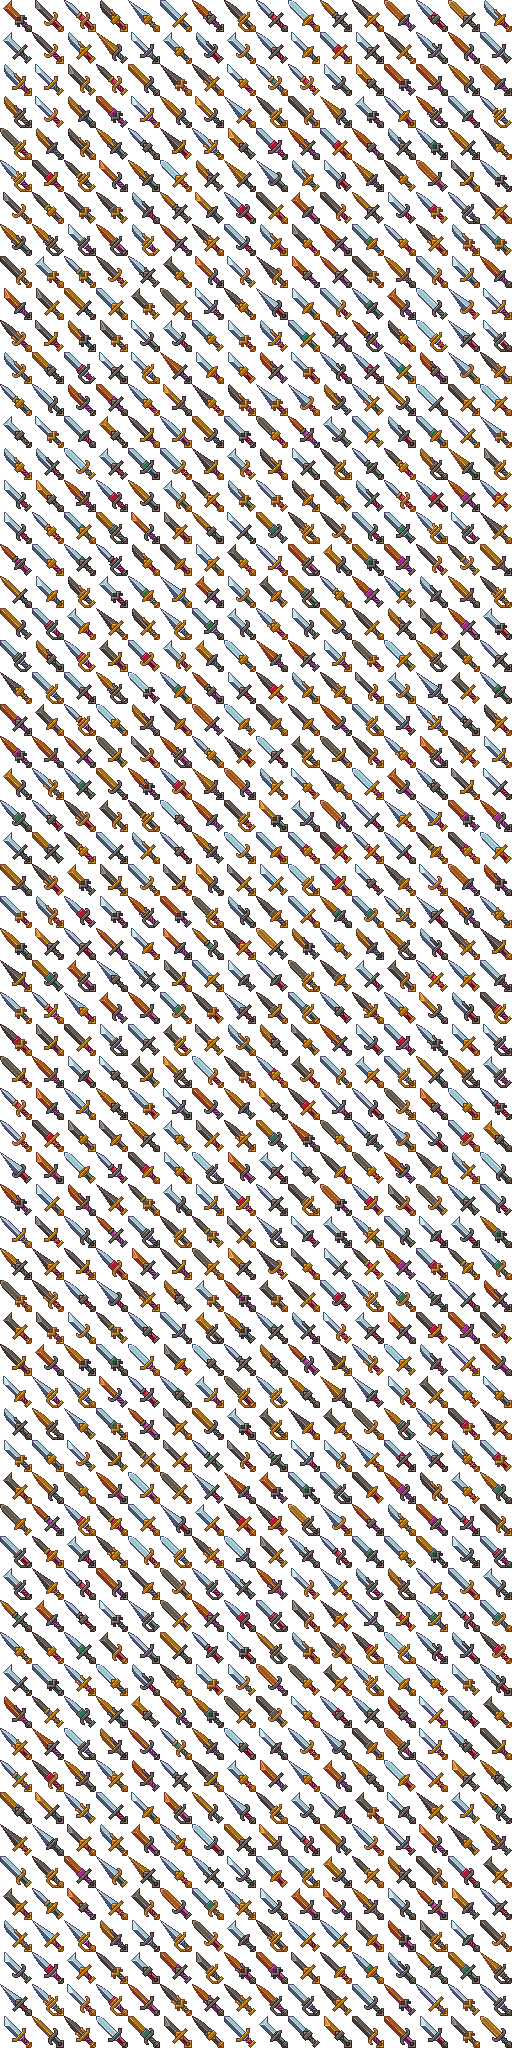
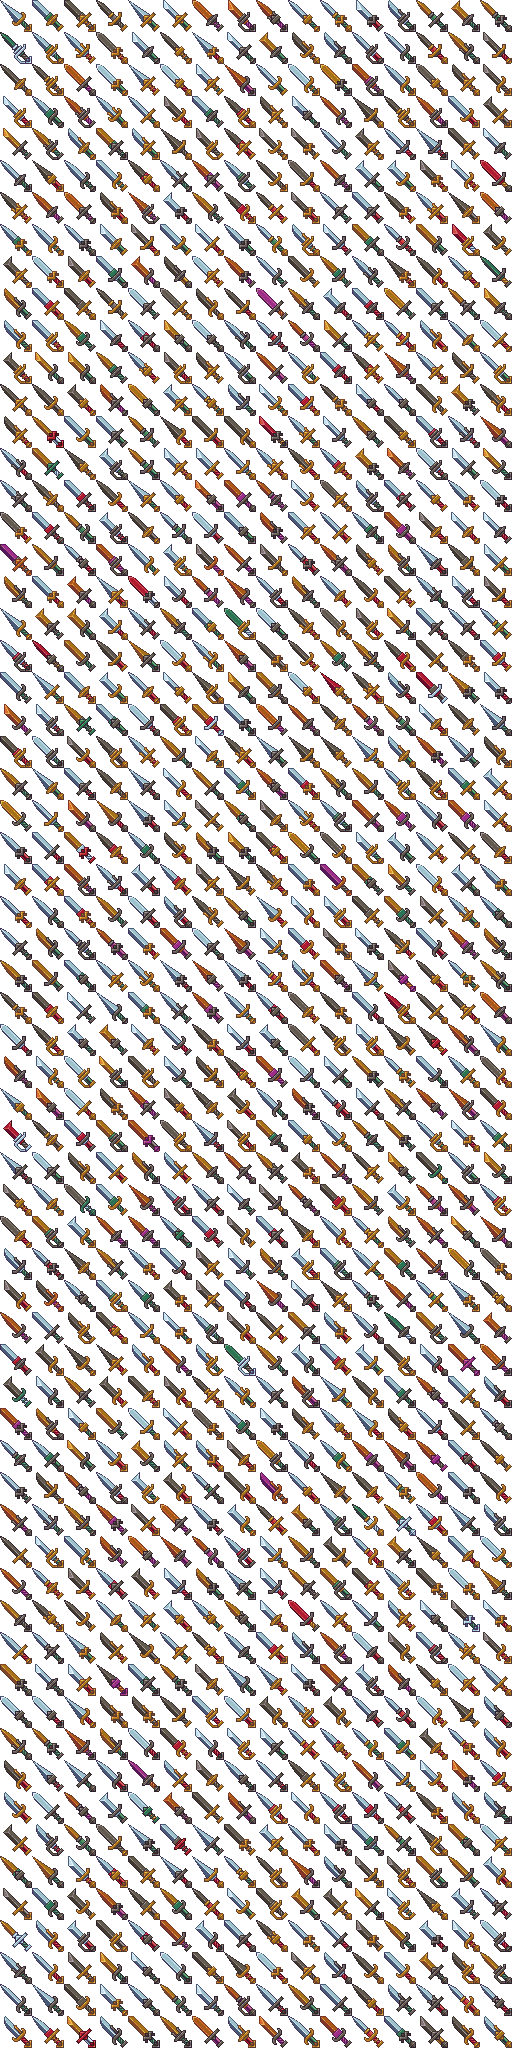
Adding a small chance to reorder the palette

Changed region(s): [[0.0, 0.0, 1.0, 1.0]]

diff --git a/generate.py b/generate.py
@@ -4,8 +4,26 @@ import random
 
 from PIL import Image
 
-def calculate_possibilities():
-    return len(palettes) * len(grips) * len(pommels) * len(crossguards) * len(blades)
+
+def calculate_image_possibilities():
+    """Computes the total possible combinations for sword pieces
+
+    Returns:
+        The total number of unique combinations of sword pieces
+    """
+
+    # Reordering the color ramps in the palette yields 3! combinations
+    palette_reorder_possibilities = 6
+
+    return len(palettes) * palette_reorder_possibilities * len(grips) * len(pommels) * len(crossguards) * len(blades)
+
+
+def print_possibility_space():
+    """Displays the total combinations of various proc gen items."""
+
+    print("Possibility space:")
+    print("   {} unique sword images".format(calculate_image_possibilities()))
+
 
 def generate_sword_image():
     """Generates a sword image from pieces
@@ -21,9 +39,28 @@ def generate_sword_image():
     crossguard = Image.open(random.choice(crossguards), 'r')
     blade = Image.open(random.choice(blades), 'r')
 
+    # Small chance to reorder palette
+    primary_palette = palette.palette.palette[0:15]
+    secondary_palette = palette.palette.palette[15:30]
+    accent_palette = palette.palette.palette[30:45]
+    transparency = palette.palette.palette[45:]
+
+    p = primary_palette + secondary_palette + accent_palette + transparency
+
+    if random.random() > 0.95:
+        reordered_palettes = [
+            primary_palette + accent_palette + secondary_palette + transparency,
+            secondary_palette + primary_palette + accent_palette + transparency,
+            secondary_palette + accent_palette + primary_palette + transparency,
+            accent_palette + primary_palette + secondary_palette + transparency,
+            accent_palette + secondary_palette + primary_palette + transparency
+        ]
+
+        p = random.choice(reordered_palettes)
+
     # Apply palette
     for image in (grip, pommel, crossguard, blade):
-        image.putpalette(palette.palette)
+        image.putpalette(p)
 
     composite = Image.new('RGBA', (32, 32))
 
@@ -34,6 +71,7 @@ def generate_sword_image():
     composite.paste(crossguard, (0, 0), crossguard.convert())
 
     return composite
+
 
 if __name__ == "__main__":
     print("Generating blades...")
@@ -48,7 +86,7 @@ if __name__ == "__main__":
     crossguards = [os.path.normpath(g) for g in glob.glob('./images/crossguards/*.png')]
     blades = [os.path.normpath(g) for g in glob.glob('./images/blades/*.png')]
 
-    print("Possibility space: {}".format(calculate_possibilities()))
+    print_possibility_space()
 
     sheet_size = 32 * 16, 32 * 64
     sprite_sheet = Image.new('RGBA', sheet_size)
